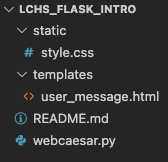
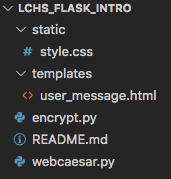
Modified 2 figures on the intro flask project page.

Changed region(s): [[0.0595, 0.2469, 0.9524, 0.9568], [0.0, 0.0, 0.8333, 0.0926], [0.0893, 0.1235, 0.4167, 0.216]]

diff --git a/src/chapters/flask-intro/project.rst b/src/chapters/flask-intro/project.rst
@@ -43,7 +43,7 @@ The starter code is located in a different branch in the repository.
    structure looks like this:
 
    .. figure:: figures/caesar-filetree.png
-      :alt: Filetree showing 2 folders and 4 files.
+      :alt: Filetree showing 2 folders and 5 files.
 
       The ``static`` and ``templates`` directories are ready for your HTML and CSS files.
 
@@ -224,7 +224,7 @@ string. Instead of using ``"abcdef..."``, we move selected letters to the start
 of the string. This makes it harder to decode a captured message because the
 letter order isn't as predictable.
 
-.. figure:: figures/keyword-cipher.png
+.. figure:: figures/keyword-cipher-2.png
    :alt: Rearrange letters to form a keyword at the start of the alphabet string.
    :width: 80%
 
